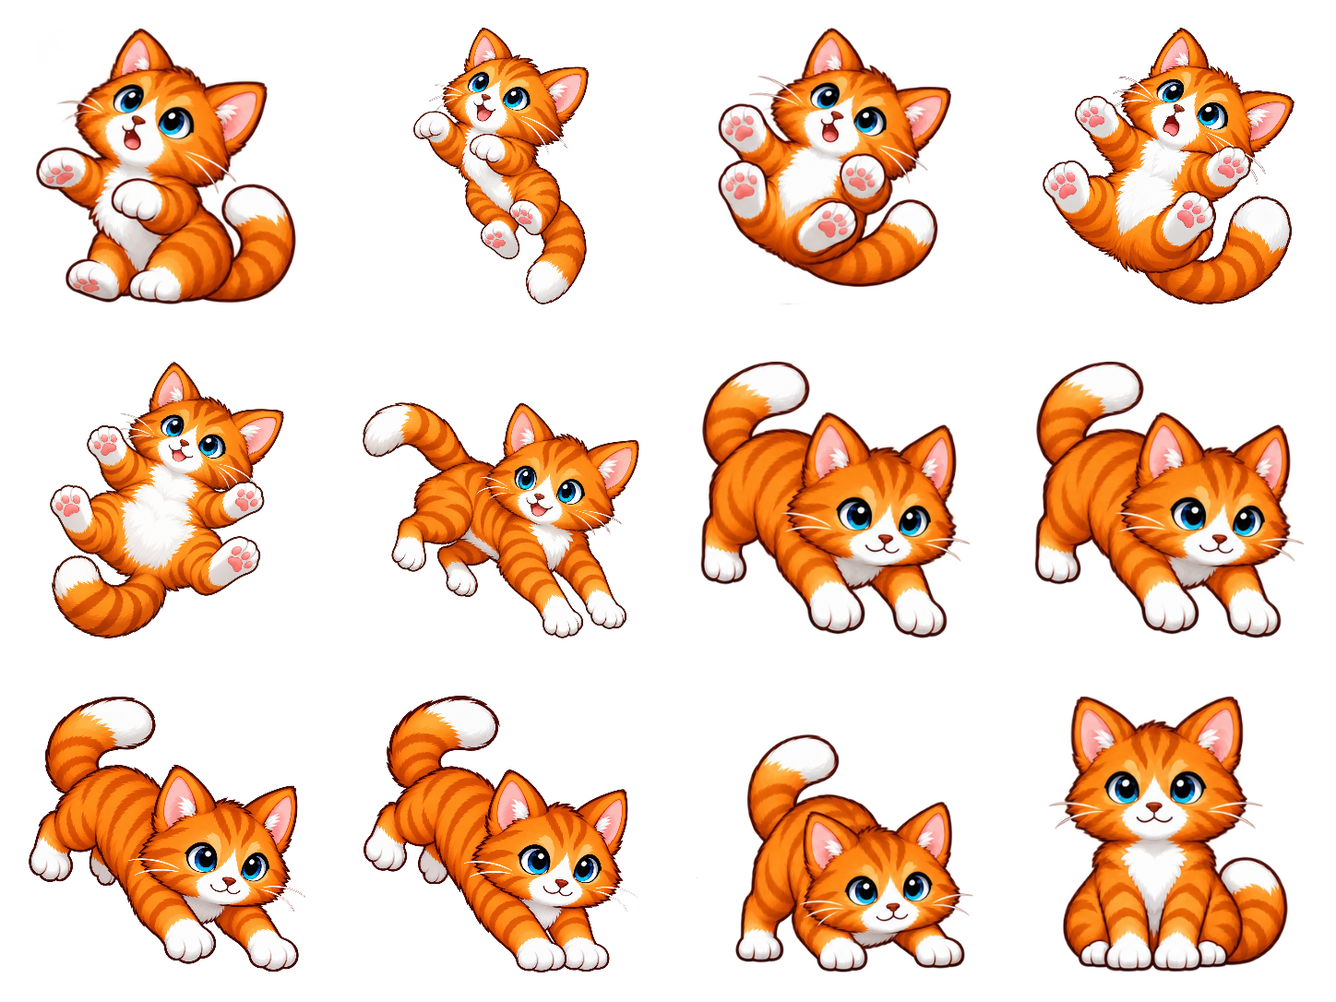
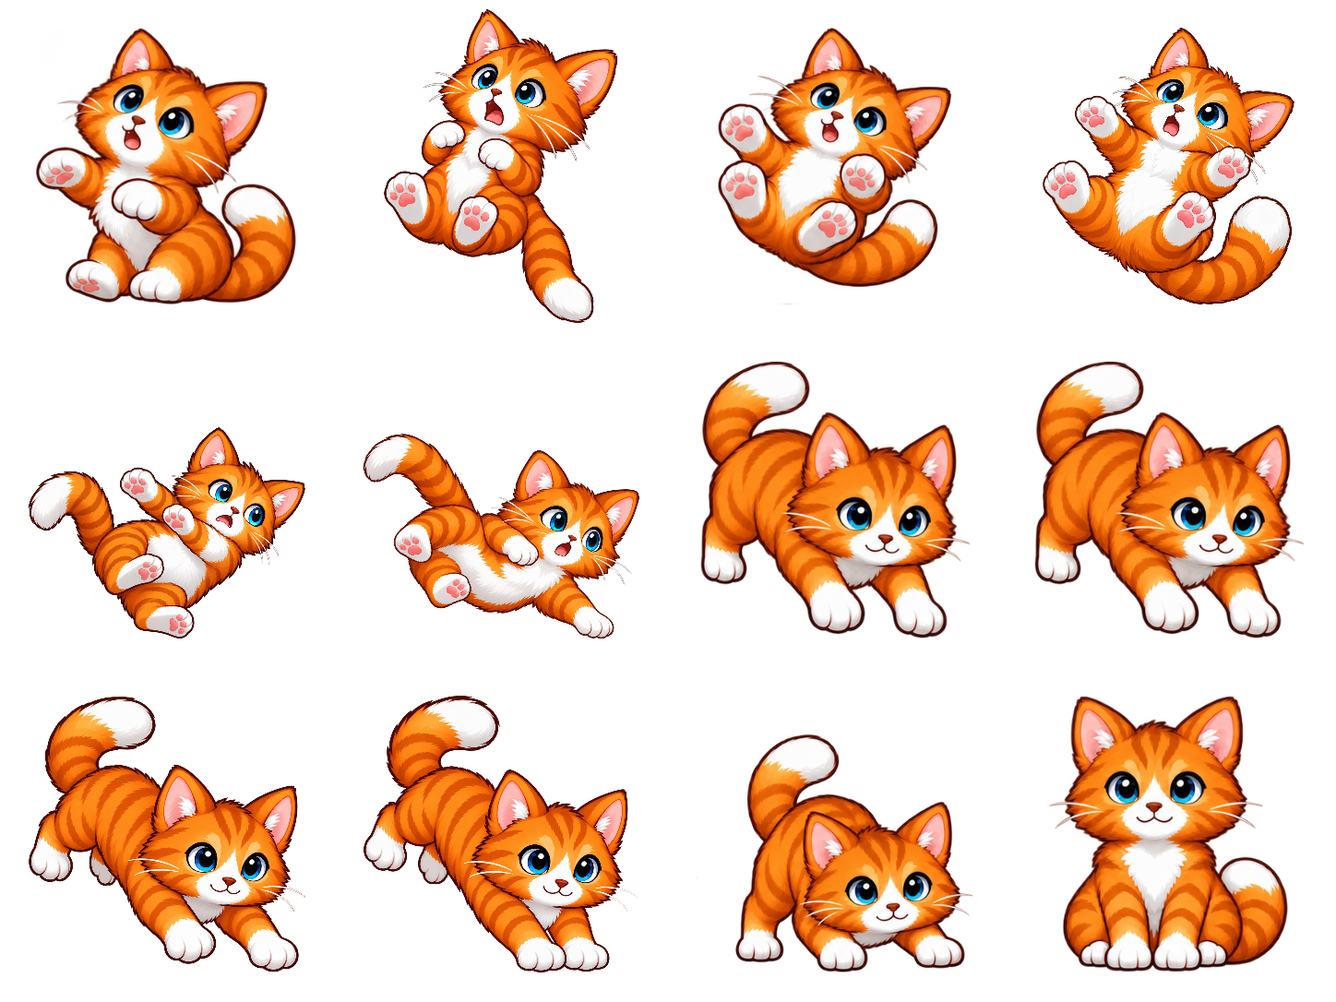
Refine cat fall and landing sequence

Changed region(s): [[0.0, 0.3646, 0.2486, 0.6381], [0.2486, 0.395, 0.4972, 0.6381], [0.2797, 0.0, 0.4662, 0.3343]]

diff --git a/artifacts/cat-motion-proxy-v2/full-sequence-review.html b/artifacts/cat-motion-proxy-v2/full-sequence-review.html
@@ -12,8 +12,9 @@
     button{font:inherit;padding:6px 10px;border:1px solid #b9c0c6;border-radius:6px;background:white;color:inherit;cursor:pointer}
     button[aria-pressed="true"]{background:#dce8f4;border-color:#52758f}
     .sequence{display:grid;grid-template-columns:repeat(6,minmax(128px,1fr));gap:10px;margin:0 0 24px}
-    figure{margin:0;min-width:0;padding:5px;border:1px solid #d6d5d2;border-radius:7px;background:#fff}
+    figure{position:relative;margin:0;min-width:0;padding:5px;border:1px solid #d6d5d2;border-radius:7px;background:#fff}
     .stage{width:100%;aspect-ratio:1;overflow:hidden;background:#f9f7f3;border-radius:4px}
+    figure.approved::after{content:"✓";position:absolute;right:5px;bottom:5px;width:18px;height:18px;border-radius:0 0 5px 0;background:#37a866;color:white;text-align:center;font:700 13px/18px system-ui}
     .stage svg{display:block;width:100%;height:100%}
     figcaption{display:flex;justify-content:space-between;gap:8px;padding:5px 2px 1px;font:11px/1.3 ui-monospace,monospace;color:#35414a}
     .phase{color:#78838c}
@@ -27,7 +28,7 @@
 </head>
 <body>
   <h1>Soft cat motion sequence</h1>
-  <p>Frames are displayed through the same atlas crops and view boxes as the website. The original 128 px viewport is preserved. Check pose order, facing, scale, paws, and tail through the full scroll arc.</p>
+  <p>Frames are displayed through the same atlas crops and view boxes as the website. The original 128 px viewport is preserved. Check pose order, facing, scale, paws, tail, and expression continuity through the full scroll arc. A green corner means Josh approved both that frame's image and its placement.</p>
   <div class="controls" aria-label="Review controls">
     <button id="play" type="button">Play sequence</button>
     <button data-theme="light" aria-pressed="true">Light</button>
@@ -53,7 +54,8 @@
       ['fall','fall-11','ground crouch',10],['transition','land-3','chest lift',8],['transition','land-4','crouch hold',9],
       ['transition','land-5','seated',10],['transition','land-6','seated hold',11],['fall','fall-12','settled hold',11],
     ];
-    const idleIds=['idle-1','idle-2','idle-3'];
+    const idleIds=['idle-1','idle-2'];
+    const approvedPoseIds=new Set(['fall-1']);
     const data=Object.fromEntries(await Promise.all(Object.entries(routes).map(async([name,url])=>[name,await (await fetch(url)).json()])));
     const NS='http://www.w3.org/2000/svg';
     function card(section,name,index,id,phase){
@@ -67,6 +69,7 @@
       svg.append(defs,image);stage.append(svg);figure.append(stage);
       const caption=document.createElement('figcaption');caption.innerHTML=`<span>${id}</span><span class="phase">${phase}</span>`;figure.append(caption);
       figure.dataset.index=String(index);figure.dataset.id=id;figure.dataset.atlas=name;figure.dataset.section=section;
+      if(approvedPoseIds.has(id))figure.classList.add('approved');
       return figure;
     }
     idleIds.forEach((id,index)=>document.querySelector('#idle').append(card('idle','idle',index,id,'perched')));

diff --git a/src/cat-scene-math.js b/src/cat-scene-math.js
@@ -53,7 +53,7 @@ export function impactDisplacement(progress) {
   return -2 * (1 - smooth((t - .42) / .58));
 }
 
-export function idleFrame(scrollY, frameCount = 3, span = 96) {
+export function idleFrame(scrollY, frameCount = 2, span = 96) {
   if (frameCount <= 1) return 0;
   const cycleProgress = (Math.max(0,scrollY) % span) / span;
   return Math.min(frameCount - 1, Math.floor(cycleProgress * frameCount));

diff --git a/src/hero-cat.js b/src/hero-cat.js
@@ -30,7 +30,7 @@ const LANDING_X = 48;
 const LANDING_INSET = -8;
 const RECOVERY_SCROLL = 190;
 const IMPACT_SCROLL = 240;
-const IDLE_IDS = ['idle-1','idle-2','idle-3'];
+const IDLE_IDS = ['idle-1','idle-2'];
 const FALL_GLOBAL_START = IDLE_IDS.length;
 let atlases = {};
 const renderState = {currentPoseId:''};

diff --git a/scripts/build-soft-cat-atlases.py b/scripts/build-soft-cat-atlases.py
@@ -18,6 +18,9 @@ VIEW_W = VIEW_H = 470
 VIEW_LEFT = (CELL - VIEW_W) / 2
 ANCHOR_X, ANCHOR_Y = 64, 113
 ART_MAX = 300
+# The long tail on this startled recoil was shrinking the torso when fit to the
+# shared cell bounds. Its foot/pivot stays unchanged; only its art scale grows.
+ART_LAYOUT_BY_SOURCE = {'fall-2-shocked-large-v3.png': {'max_size': 340, 'cell_foot': 350}}
 CELL_FOOT = 330
 
 
@@ -100,12 +103,12 @@ def file_pose(name):
 
 # Approved or reviewed poses only. The two repeated holds are intentional:
 # the scroll route has more stable IDs than unique key drawings.
-IDLE = [sheet_pose(0), sheet_pose(1), sheet_pose(8)]
+IDLE = [sheet_pose(0), sheet_pose(1)]
 FALL = [
-    sheet_pose(2), file_pose('keyframe-01-lift-off.png'), sheet_pose(3),
+    sheet_pose(2), file_pose('fall-2-shocked-large-v3.png'), sheet_pose(3),
     file_pose('keyframe-02-back-first-fall.png'),
-    file_pose('pose-05-supine-recreated.png'),
-    file_pose('pose-06-righting-recreated.png'),
+    file_pose('fall-5-bridge-v2.png'),
+    file_pose('fall-6-bridge-v2.png'),
     file_pose('reference-R7-pose.png'), file_pose('reference-R7-pose.png'),
     file_pose('fall-9-near-contact-v2.png'),
     file_pose('fall-10-first-contact-v2.png'),
@@ -118,7 +121,7 @@ TRANSITION = [
     file_pose('pose-06-righting-recreated.png'),
     file_pose('reference-R7-pose.png'), file_pose('reference-R7-pose.png'),
     file_pose('keyframe-04-impact-compression.png'),
-    file_pose('land-2-small-rebound.png'),
+    file_pose('land-2-rebound-v3.png'),
     file_pose('land-3-chest-lift-v2.png'),
     file_pose('land-3-chest-lift-v2.png'),
     file_pose('reference-R9-pose.png'), file_pose('reference-R9-pose.png'),
@@ -176,11 +179,14 @@ def place_pose(atlas, frame_index, spec, cache):
     (width,height,source), region = load_pose(spec,cache)
     x0,y0,x1,y1 = crop_bounds(width,height,source,region)
     sw,sh = x1-x0,y1-y0
-    scale = min(ART_MAX/max(sw,sh), 1.0)
+    layout = ART_LAYOUT_BY_SOURCE.get(spec[1], {}) if spec[0] == 'file' else {}
+    max_art = layout.get('max_size', ART_MAX)
+    cell_foot = layout.get('cell_foot', CELL_FOOT)
+    scale = min(max_art/max(sw,sh), 1.0)
     dw,dh = max(1,round(sw*scale)), max(1,round(sh*scale))
     cell_x,cell_y = (frame_index%COLS)*CELL,(frame_index//COLS)*CELL
     dx0 = cell_x + (CELL-dw)//2
-    dy0 = cell_y + CELL_FOOT - dh
+    dy0 = cell_y + cell_foot - dh
     for dy in range(dh):
         sy = y0 + (dy+0.5)/scale - 0.5
         for dx in range(dw):
@@ -189,7 +195,7 @@ def place_pose(atlas, frame_index, spec, cache):
             dest = ((dy0+dy)*ATLAS_W + dx0+dx)*4
             atlas[dest:dest+4] = px
     return [cell_x,cell_y,CELL,CELL], [
-        round(cell_x+VIEW_LEFT,2), round(cell_y+CELL_FOOT-ANCHOR_Y*(VIEW_H/128),2),
+        round(cell_x+VIEW_LEFT,2), round(cell_y+cell_foot-ANCHOR_Y*(VIEW_H/128),2),
         VIEW_W,VIEW_H,
     ]
 

diff --git a/README.md b/README.md
@@ -2,6 +2,8 @@
 
 Prepared 15 October 2026 from the existing Wiskers website checkout. This is a local review version; the production site has not been published or changed.
 
+Earlier sections retain history from the pixel-art and initial scroll prototypes. The later revisions in this file and the active direction in `AGENTS.md` supersede those details.
+
 ## Design
 
 Preserves the Wiskers wordmark, palette, Day / Night / Twilight themes, business copy, openable problem statement, interactive question example, contact and legal pages. Staggered statement blocks, comparison tiles, answer card and approach cards provide varied surfaces. The opening cat scene begins seated on “content” with a short forward-looking idle, then looks up and reacts near the top edge before falling back-first, righting itself and landing inside the blue “Insight takes input” tile.
@@ -69,17 +71,17 @@ Run `node --test scripts/cat-scene-math.test.mjs` for compact-layout, continuous
 
 ## Atlas-safe fall and landing revision
 
-Replaced runtime grooming with three quiet forward-gaze idle frames, cycling in order every 96 scroll pixels (32 pixels per pose). The idle atlas `cat-idle-c-v4` was drawn by Luna from the canonical Style C master and the approved settled pose `fall-12` (frame 27) as the seated action reference. The scene loads and decodes all three active atlases before revealing the cat: `cat-idle-c-v4`, `cat-fall-c-v1`, and `cat-transition-c-v2`. Each atlas has a persistent SVG image layer with its own source URL, cell clip and view box. The target layer receives its complete geometry before the active layer changes, so reverse scrolling and deep-link loads cannot momentarily combine a new crop with the previous sheet. If any sheet is unavailable, the cat stays hidden and the rest of the page remains usable.
+Replaced runtime grooming with two quiet forward-gaze idle frames, cycling in order every 96 scroll pixels (48 pixels per pose). Idle-3 has since been cut; idle-2 is the final seated beat before fall-1. The current soft idle, fall, and transition atlases are decoded before revealing the cat. Each atlas has a persistent SVG image layer with its own source URL, cell clip and view box. The target layer receives its complete geometry before the active layer changes, so reverse scrolling and deep-link loads cannot momentarily combine a new crop with the previous sheet. If any sheet is unavailable, the cat stays hidden and the rest of the page remains usable.
 
-The 24 fall/landing poses use short frame labels. Frames 01–03 are `idle-1`–`idle-3`; 04–27 map in order to: `fall-1`, `fall-2`, `fall-3`, `fall-4`, `twist-1`, `fall-5`, `twist-2`, `twist-3`, `fall-6`, `twist-4`, `twist-5`, `fall-7`, `twist-6`, `fall-8`, `fall-9`, `fall-10`, `land-1`, `land-2`, `fall-11`, `land-3`, `land-4`, `land-5`, `land-6`, and `fall-12`. Use these labels in feedback (for example, “frame 6, fall-3”); frame numbers still give the exact position in the full sequence. The previous Fall-only crosswalk remains: old frames 09–20 now appear at current frames 04, 05, 06, 07, 09, 12, 15, 17, 18, 19, 22 and 27 respectively.
+The 24 fall/landing poses use short frame labels. Frames 01–02 are `idle-1` and `idle-2`; idle-2 is the final seated beat before the fall. Frames 03–26 map in order to: `fall-1`, `fall-2`, `fall-3`, `fall-4`, `twist-1`, `fall-5`, `twist-2`, `twist-3`, `fall-6`, `twist-4`, `twist-5`, `fall-7`, `twist-6`, `fall-8`, `fall-9`, `fall-10`, `land-1`, `land-2`, `fall-11`, `land-3`, `land-4`, `land-5`, `land-6`, and `fall-12`. Use these labels in feedback (for example, “frame 5, fall-3”); frame numbers still give the exact position in the full sequence. The previous Fall-only crosswalk remains: old frames 09–20 now appear at current frames 03, 04, 05, 06, 08, 11, 14, 16, 17, 18, 21 and 26 respectively.
 
-The scare begins when the head reaches the viewport top edge, and the scare window lasts 30 scroll pixels. The lower world still moves continuously, with native scrolling and no page pinning. Flight ends at the registered contact pose; the cat then recovers through the interleaved landing poses over 190 scroll pixels. The tile and attached cat move together: the tile rocks counterclockwise and sinks about 10px, rebounds about 2px, then returns to its original position as the rotation settles across 240 pixels. Reduced motion leaves the cat on forward-looking idle frame 01 with no fall, parallax or impact. The new seated idle atlas renders approximately 78 × 85.5px while keeping the 128px viewport and (64,113) anchor. Its three source-cell clips share one scale and paw baseline.
+When a frame is redone, inspect its immediate previous and next frames in sequence, then make a fresh bridging pose. Check silhouette and scale, facing/body rotation, ears, four limbs, tail, and expression continuity across both transitions. Reject or regenerate a candidate that breaks the movement or character read. Green corner markers on the review sheet are reserved for frames Josh has explicitly approved for both image and placement; a placement-only confirmation is recorded separately and does not turn the marker green.
+
+The scare begins when the head reaches the viewport top edge, and the scare window lasts 30 scroll pixels. The lower world still moves continuously, with native scrolling and no page pinning. Flight ends at the registered contact pose; the cat then recovers through the interleaved landing poses over 190 scroll pixels. The tile and attached cat move together: the tile rocks counterclockwise and sinks about 10px, rebounds about 2px, then returns to its original position as the rotation settles across 240 pixels. Reduced motion leaves the cat on forward-looking idle frame 01 with no fall, parallax or impact. The seated idle atlas keeps the 128px viewport and (64,113) anchor.
 
 Math checks cover the stable pose map and ordering, flight-to-contact handoff, idle progression, impact endpoints, continuous page motion and landing geometry. Browser checks on the local desktop preview confirmed the loaded idle, interleaved contact/landing, settled pose and reverse return to idle. Further narrow-mobile and OS reduced-motion inspection remains part of final release validation.
 
 
-## Model-guided cat redraw, 16 October 2026
+## Earlier pixel-art atlas history
 
-The website now uses versioned action atlases `cat-fall-c-v2` and `cat-transition-c-v3`; the approved forward-looking idle atlas and the existing 27-frame scroll path are unchanged. The five-view `base-model` sheet is the primary drawing shape guide, the canonical Style C master remains the pixel identity reference, and the 3D proxy is used only for pose and motion direction. Sequence guidance uses believable cat mechanics with cartoon readability: head and shoulders lead, hips follow, paws tuck or reach, the tail trails, and landing compresses then recovers.
-
-The revised upward-facing `fall-4` and `twist-2` cells show four paws/legs and one tail. `fall-12` is restored pixel-for-pixel from the approved original atlas. Both new atlases use 1448 × 1086 RGBA sheets, 4 × 3 cells, a 128 × 128 viewport and the shared (64,113) foot anchor. Exact prompts, frame order and anatomy review are recorded in `artifacts/cat-motion-proxy-v2/`.
+The entries above describe the previous pixel-art and scroll revisions. They are retained as change history; the current detailed cartoon direction, active soft atlases, two-frame idle, 24-frame action order, and pose review workflow are recorded in `AGENTS.md` and `artifacts/cat-motion-proxy-v2/qa.md`.

diff --git a/AGENTS.md b/AGENTS.md
@@ -3,7 +3,7 @@
 The user's cat direction from 16 October 2026 supersedes the earlier pixel-art style direction below:
 
 - The user decides the cat's path and actions. Implement only the beats they describe; do not restore old animation plans or invent new scenes.
-- The current agreed cat scene starts seated on “content” with an upward gaze. Three quiet idle poses play over a short scroll; runtime grooming has been removed. As the cat approaches the top of the screen, it reacts, falls back-first, rights itself in midair, and lands in the lower area of the blue “Insight takes input” tile. The tile rocks slightly counterclockwise at impact and settles. The cat stays attached inside the tile afterward. Do not add other cat actions or scenes.
+- The current agreed cat scene starts seated on “content” with an upward gaze. Two quiet idle poses play over a short scroll; idle-3 has been cut, so idle-2 is the final seated beat before fall-1. Runtime grooming has been removed. As the cat approaches the top of the screen, it reacts, falls back-first, rights itself in midair, and lands in the lower area of the blue “Insight takes input” tile. The tile rocks slightly counterclockwise at impact and settles. The cat stays attached inside the tile afterward. Do not add other cat actions or scenes.
 - The user has chosen a new non-pixel direction: keep the cat close to the detailed, softly shaded cartoon in `public/art/cat-motion-proxy-v2/base-model-2.png`. This user-provided sheet is the current character and style reference. Preserve its ginger tabby, blue eyes whenever open, white markings, pink ears, face and body proportions. Keep the source image unchanged. `artifacts/cat-motion-proxy-v2/direction-notes.md` records the approved style, route, fallback, and how the user's animation guidance applies. The old C pixel master and atlases remain preserved rollback/archive material; do not use them as the active style master for new art.
 - The user asked to retain a simplified clean-cartoon option as a fallback. It is saved at `artifacts/cat-motion-proxy-v2/style-proof-flat-v2.png`; use it only if the user redirects to that style.
 - The user reviewed the nine-pose detailed-style sheet and approved continuing after pose 5's missing ear and pose 6's extra limb were recreated. Production now uses the generated transparent poses in `public/art/cat-idle-soft-v1/`, `public/art/cat-fall-soft-v1/`, and `public/art/cat-transition-soft-v1/`. `scripts/build-soft-cat-atlases.py` packs the reviewed source drawings from `artifacts/cat-motion-proxy-v2/`; regenerate all three atlases with that script after changing a source pose. The active source list and stable ID crosswalk are recorded in that script and `artifacts/cat-motion-proxy-v2/qa.md`. Keep each source image and the user-provided `base-model-2.png` unchanged. The rejected green-eyed standing-cat concept and checkerboard-baked landing candidates must not be used. `style-proof-flat-v2.png` remains an approved style fallback only if the user asks to switch.
@@ -17,4 +17,4 @@ This folder is the local redesign source. Follow the standing dev-to-main releas
 
 The user explicitly authorized committing and pushing every completed website change to `dev`, then merging the checked change into `main`. `main` is connected to the public Cloudflare release workflow. Keep changes in small, traceable commits, push `dev` promptly after each finished change, and merge/push `main` after appropriate validation. Preserve remote work; do not force-push or discard unrelated changes. The active preview now has the website repository history and `origin` at `https://github.com/wiskersofficial/wiskers-website.git`.
 
-Keep the insight tile at its normal content-driven size. Create the falling room with continuous scroll motion, not extra internal card padding. The temporary cat frame counter is visible in the local dev server and available on deployed pages with `?cat-debug=1`. It pairs sequential IDs 01–03 for idle and 04–27 for the interleaved fall with short pose labels such as `fall-6`, `twist-3`, and `land-4`, plus the live page scroll offset in CSS pixels. The README's current revision records the crosswalk from old fall-only counter numbers.
+Keep the insight tile at its normal content-driven size. Create the falling room with continuous scroll motion, not extra internal card padding. The temporary cat frame counter is visible in the local dev server and available on deployed pages with `?cat-debug=1`. It pairs sequential IDs 01–02 for idle and 03–26 for the interleaved fall with short pose labels such as `fall-6`, `twist-3`, and `land-4`, plus the live page scroll offset in CSS pixels. The README's current revision records the crosswalk from old fall-only counter numbers. When a frame is redone, inspect its immediate previous and next frames, make a fresh bridge pose, then check size, facing, ears, four limbs, tail, and expression continuity before accepting it. A green corner marker in the review sheet means the user approved both the image and its on-page placement; record partial confirmation without marking it green.

diff --git a/artifacts/cat-motion-proxy-v2/animation-pipeline-notes.md b/artifacts/cat-motion-proxy-v2/animation-pipeline-notes.md
@@ -1,0 +1,18 @@
+# Controlled cat-art workflow research
+
+## What is in use now
+
+The current animation is a set of separately generated transparent pose images. Each candidate is inspected at the website's small rendered size, in sequence with its actual previous and next frames, then packed into the existing atlases. The page still uses its existing scroll-driven frame selection and geometry. OpenPose, IP-Adapter, and EbSynth have not been used to produce the current frames.
+
+## Tool fit
+
+- **ComfyUI** is a node-graph authoring and execution environment for image-generation workflows. Workflows can be saved as JSON, including settings and seeds, and it has an API. That makes it a reasonable controlled workbench for repeating the same pose-generation recipe and recording what produced each candidate. It is an orchestrator; consistency still depends on the model, reference conditioning, guides, and human review. A small pilot on a few troublesome poses is the right next step before moving the whole art pipeline there. [ComfyUI project](https://github.com/comfy-org/ComfyUI)
+- **IP-Adapter** can condition generation on the approved cat reference, so it is useful for carrying color, face, and markings into new poses. It guides resemblance rather than locking identity: the project documents a scale tradeoff between prompt-image consistency and variety. In ComfyUI it requires a compatible checkpoint, adapter weights, and an appropriate node implementation. [IP-Adapter project](https://github.com/tencent-ailab/IP-Adapter)
+- **Vanilla OpenPose ControlNet** is trained around human pose landmarks, so it is not a ready-made cat skeleton. A hand-authored quadruped pose guide, a compatible animal-pose control model, or a rough drawn pose is more appropriate here. AP-10K shows that animal keypoints can be modeled across many species, but the dataset itself is not a drop-in ControlNet pose preprocessor. [ControlNet human-pose example](https://github.com/lllyasviel/ControlNet/blob/main/README.md), [AP-10K](https://github.com/airhors/Animal-Pose-Estimation-i)
+- **EbSynth** propagates a painted/stylized keyframe through an existing guide video. It could help once there is a continuous guide animation (for example a rough 2D/3D cat rig) whose movement already matches the sequence. It does not invent missing motion between still poses, so it is not a replacement for designing the bridging poses. [EbSynth](https://ebsynth.com/)
+
+## Proposed repeatable checks
+
+For every redo, inspect the immediate neighbors and make a new pose intended to bridge them. Compare silhouette and body/head scale, direction and body rotation, ear count, four visible limbs where appropriate, tail shape, landing contact, and facial expression. Check the sequence at the final website size, not only as a large image. Reject candidates that fail any of these checks and regenerate instead of patching anatomy by adding parts from an incompatible pose.
+
+Only mark a pose green in the review sheet after the user approves both the image and its placement. A placement confirmation by itself is recorded as placement-only.

diff --git a/artifacts/cat-motion-proxy-v2/qa.md b/artifacts/cat-motion-proxy-v2/qa.md
@@ -4,6 +4,10 @@
 
 - The soft cartoon atlases supersede the previous C pixel-art atlases for the live scene. The old atlases remain available for rollback.
 - The user approved the detailed ginger cat style and roughly the existing on-page footprint. The existing scroll route, timing, tile movement, tile impact, and reverse-on-scroll behavior are preserved.
+- The user confirmed fall-1 is in the right position. Fall-2's position is also confirmed, but its image must be redrawn larger with a shocked expression; the current happy face and reduced scale break continuity. These are placement confirmations only, so neither frame receives a green approval corner yet.
+- The user cut idle-3; idle-2 now leads directly into fall-1. For any requested redo, assess its actual previous and next sequence frames and create a fresh bridge pose. Expression continuity joins pose order, consistent scale/facing, ears, four limbs and tail in the acceptance check.
+- Fresh `fall-2`, `fall-5`, `fall-6`, and `land-2` drawings were reviewed alongside their sequence neighbors at the website's 78px display scale. All have two ears, four limbs and a transparent background. Fall-2 keeps its tail trailing down and is enlarged through a source-specific art-size setting while retaining the shared viewport, foot anchor, and placement. Fall-1 is approved for both image and placement (green corner); fall-2's placement is approved and its current redraw is integrated, but the user has not yet approved the image.
+- The full review sheet confirms the idle atlas contains only idle-1 and idle-2 and labels the 24 action frames from fall-1 through fall-12 in stable order. The browser build succeeded after regenerating the atlases.
 - `scripts/build-soft-cat-atlases.py` maps the approved transparent drawings into three 1448 × 1086 RGBA atlases. Each atlas uses a 128 × 128 viewport, anchor (64,113), and 362 × 362 source cells. The script records the pose-to-cell mappings; repeated images are intentional holds across existing stable IDs.
 - The fall arc reuses the approved seated startle, lift-off, back-first fall, recreated supine and righting poses, then keeps a right-facing orientation through approach, first paw contact, crouch, and seated hold. The final usable crouch is held through recovery because generated intermediate landing candidates baked a checkerboard into their backgrounds or jumped directly to sitting.
 - Browser review at the site’s rendered size covered idle, early fall, twist, approach, landed, and scroll-up reversal. Desktop checks included frame 11 at scroll 400, frame 16 at scroll 622, and landing recovery at scroll 800. The landed cat remains at the blue tile’s lower-left; reverse scroll returned to an airborne pose without a snap.
